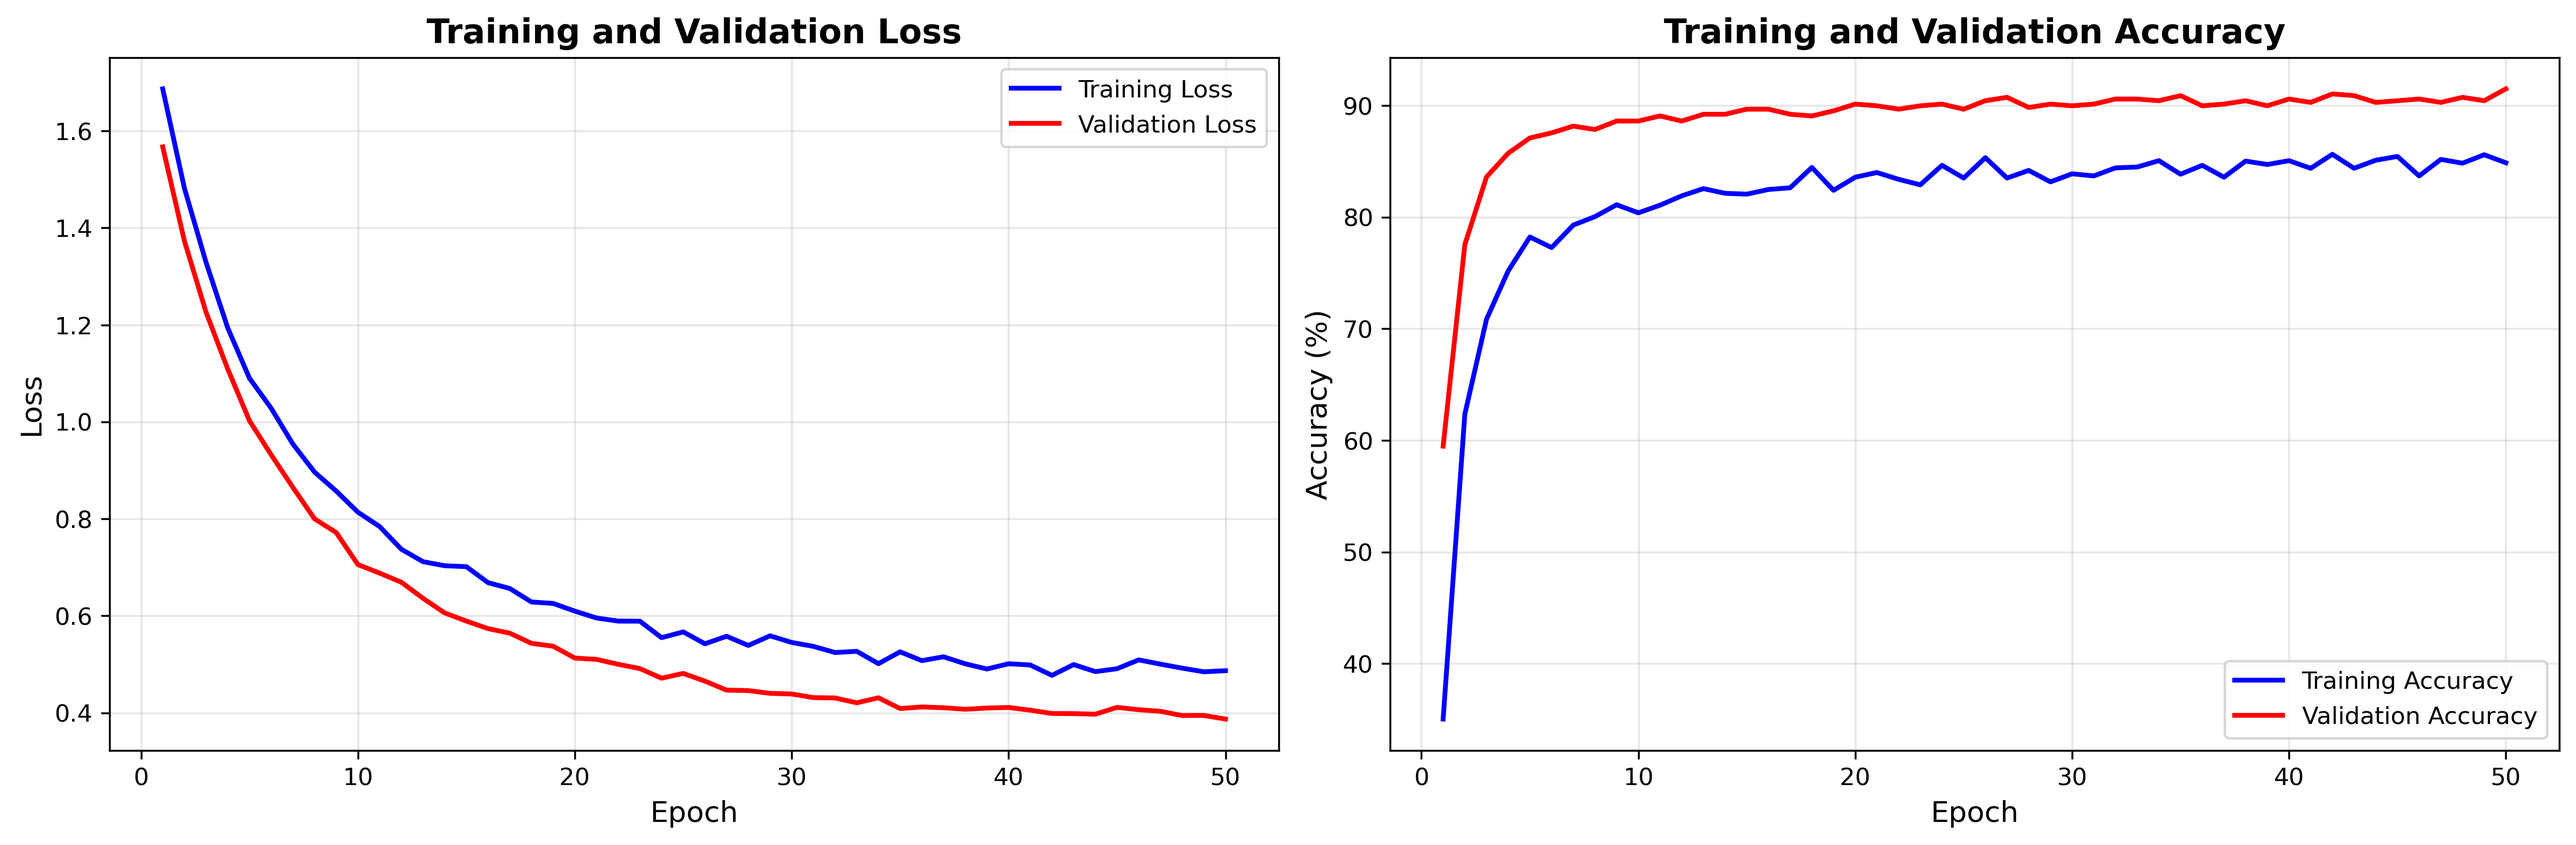
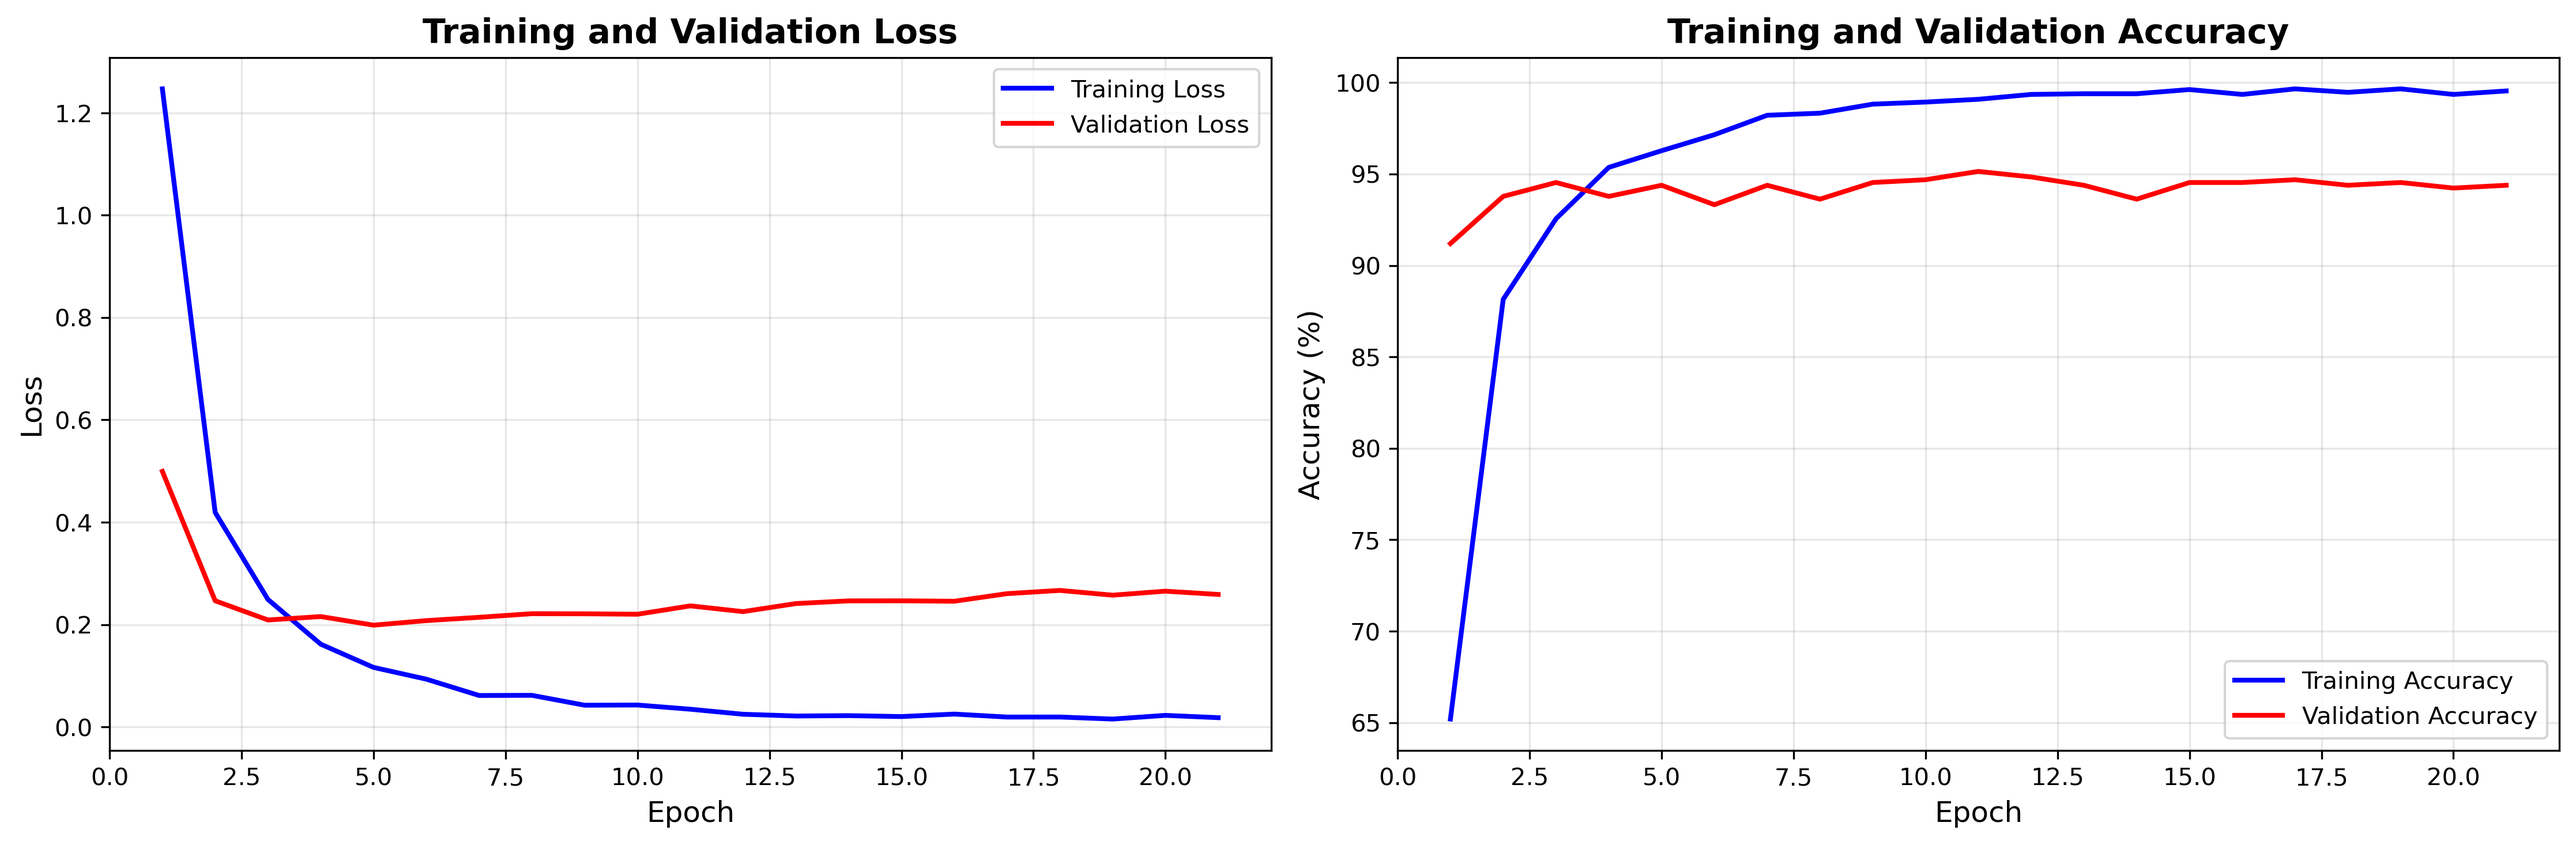
Treained and evaluated efficientNet with an unfrozen backbone

diff --git a/model.py b/model.py
@@ -99,7 +99,7 @@ class ResNet50Transfer(nn.Module):
 
 class EfficientNetTransfer(nn.Module):
     
-    def __init__(self, num_classes=config.NUM_CLASSES, freeze_backbone=True):
+    def __init__(self, num_classes=config.NUM_CLASSES, freeze_backbone=False):
         super(EfficientNetTransfer, self).__init__()
         
         # Load pre-trained EfficientNet-B3
@@ -138,7 +138,7 @@ def get_model(model_type):
         model = ResNet50Transfer(num_classes=config.NUM_CLASSES, freeze_backbone=True)
         model_name = "ResNet-50 (Transfer Learning)"
     elif model_type.lower() == 'efficientnet':
-        model = EfficientNetTransfer(num_classes=config.NUM_CLASSES, freeze_backbone=True)
+        model = EfficientNetTransfer(num_classes=config.NUM_CLASSES, freeze_backbone=False)
         model_name = "EfficientNet-B3 (Transfer Learning)"
     
     model = model.to(config.DEVICE)
